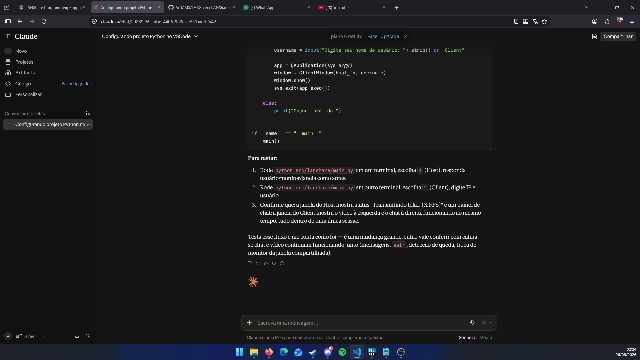
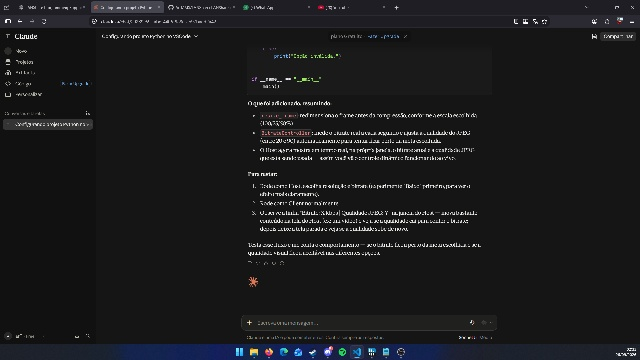
add configurable resolution scale and dynamic bitrate contro

Changed region(s): [[0.375, 0.1222, 0.75, 0.7333]]

diff --git a/src/lanshare/screen_capture.py b/src/lanshare/screen_capture.py
@@ -2,11 +2,11 @@ import cv2
 import mss
 import numpy as np
 
-JPEG_QUALITY = 70
+DEFAULT_JPEG_QUALITY = 70
 
 
 def choose_monitor(sct):
-    monitors = sct.monitors  # índice 0 = todos os monitores juntos; 1, 2, 3... = monitores individuais
+    monitors = sct.monitors
 
     print("\nMonitores disponíveis:")
     for i, monitor in enumerate(monitors):
@@ -23,9 +23,47 @@ def choose_monitor(sct):
         print("Opção inválida, tente novamente.")
 
 
-def compress_frame(frame, verbose=False):
+def choose_resolution_scale():
+    print("\nQualidade de resolução da transmissão:")
+    print("  [1] 100% (nítido, mais dados)")
+    print("  [2] 75%")
+    print("  [3] 50% (mais leve, menos nítido)")
+
+    options = {"1": 1.0, "2": 0.75, "3": 0.5}
+    while True:
+        escolha = input("Escolha uma opção: ").strip()
+        if escolha in options:
+            return options[escolha]
+        print("Opção inválida, tente novamente.")
+
+
+def choose_target_bitrate():
+    print("\nMeta de bitrate da transmissão (controla o quanto de dados é usado por segundo):")
+    print("  [1] Baixo (~1500 kbps) — prioriza economia de rede")
+    print("  [2] Médio (~4000 kbps) — equilíbrio")
+    print("  [3] Alto (~8000 kbps) — prioriza qualidade")
+
+    options = {"1": 1500, "2": 4000, "3": 8000}
+    while True:
+        escolha = input("Escolha uma opção: ").strip()
+        if escolha in options:
+            return options[escolha]
+        print("Opção inválida, tente novamente.")
+
+
+def resize_frame(frame, scale):
+    """Redimensiona o frame pela escala informada (1.0 = tamanho original)."""
+    if scale >= 1.0:
+        return frame
+    height, width = frame.shape[:2]
+    new_width = max(2, int(width * scale) // 2 * 2)   # garante dimensão par
+    new_height = max(2, int(height * scale) // 2 * 2)
+    return cv2.resize(frame, (new_width, new_height), interpolation=cv2.INTER_AREA)
+
+
+def compress_frame(frame, quality=DEFAULT_JPEG_QUALITY, verbose=False):
     """Recebe um frame já capturado (array BGR) e devolve os bytes comprimidos em JPEG."""
-    success, encoded = cv2.imencode(".jpg", frame, [cv2.IMWRITE_JPEG_QUALITY, JPEG_QUALITY])
+    success, encoded = cv2.imencode(".jpg", frame, [cv2.IMWRITE_JPEG_QUALITY, quality])
     compressed_bytes = encoded.tobytes()
 
     if verbose:
@@ -40,7 +78,6 @@ def compress_frame(frame, verbose=False):
 
 
 def capture_screen(output_path="screenshot.jpg"):
-    """Teste isolado de um único print — continua usando mss, simples o bastante para não precisar do dxcam aqui."""
     with mss.mss() as sct:
         _, monitor = choose_monitor(sct)
         screenshot = sct.grab(monitor)

diff --git a/src/lanshare/gui.py b/src/lanshare/gui.py
@@ -46,7 +46,6 @@ class ChatPanel(QWidget):
         self.chat_thread.message_received.connect(self._on_message_received)
         self.chat_thread.disconnected.connect(self._on_disconnected)
 
-        # heartbeat: envia sinal de vida a cada 5s e confere a cada 1s se o outro lado sumiu
         self.heartbeat_timer = QTimer(self)
         self.heartbeat_timer.timeout.connect(self.chat_thread.send_ping)
         self.heartbeat_timer.start(5000)
@@ -89,18 +88,21 @@ class ChatPanel(QWidget):
 
 
 class HostWindow(QMainWindow):
-    def __init__(self, username, monitor_index, monitor, target_hwnd, monitor_mapping, mss_monitors):
+    def __init__(self, username, monitor_index, monitor, target_hwnd, monitor_mapping, mss_monitors,
+                 resolution_scale=1.0, target_bitrate_kbps=4000):
         super().__init__()
         self.setWindowTitle("LANShare - Host")
         self.resize(700, 500)
 
         self.video_status_label = QLabel("Aguardando conexão de vídeo...")
+        self.stats_label = QLabel("")
 
         chat_thread = ChatServerThread(username)
         self.chat_panel = ChatPanel(username, chat_thread)
 
         layout = QVBoxLayout()
         layout.addWidget(self.video_status_label)
+        layout.addWidget(self.stats_label)
         layout.addWidget(self.chat_panel)
 
         container = QWidget()
@@ -108,13 +110,19 @@ class HostWindow(QMainWindow):
         self.setCentralWidget(container)
 
         self.video_thread = VideoSendServerThread(
-            monitor_index, monitor, target_hwnd, monitor_mapping, mss_monitors
+            monitor_index, monitor, target_hwnd, monitor_mapping, mss_monitors,
+            resolution_scale=resolution_scale, target_bitrate_kbps=target_bitrate_kbps
         )
         self.video_thread.client_connected.connect(
             lambda: self.video_status_label.setText("Transmitindo tela...")
         )
         self.video_thread.fps_updated.connect(
             lambda fps: self.video_status_label.setText(f"Transmitindo tela... ({fps:.1f} FPS)")
+        )
+        self.video_thread.stats_updated.connect(
+            lambda kbps, quality: self.stats_label.setText(
+                f"Bitrate: {kbps:.0f} kbps | Qualidade JPEG: {quality}"
+            )
         )
         self.video_thread.error_occurred.connect(
             lambda msg: self.video_status_label.setText(f"Erro na transmissão: {msg}")

diff --git a/src/lanshare/video_threads.py b/src/lanshare/video_threads.py
@@ -5,7 +5,8 @@ import dxcam
 from PySide6.QtCore import QThread, Signal
 
 from streaming import send_frame, receive_frame
-from screen_capture import compress_frame
+from screen_capture import compress_frame, resize_frame
+from bitrate_controller import BitrateController
 from window_selector import get_window_region, get_current_monitor_index
 
 STREAM_PORT = 5556
@@ -18,15 +19,19 @@ class VideoSendServerThread(QThread):
 
     client_connected = Signal()
     fps_updated = Signal(float)
+    stats_updated = Signal(float, int)  # bitrate atual (kbps), qualidade JPEG atual
     error_occurred = Signal(str)
 
-    def __init__(self, monitor_index, monitor, target_hwnd, monitor_mapping, mss_monitors):
+    def __init__(self, monitor_index, monitor, target_hwnd, monitor_mapping, mss_monitors,
+                 resolution_scale=1.0, target_bitrate_kbps=4000):
         super().__init__()
         self.monitor_index = monitor_index
         self.monitor = monitor
         self.target_hwnd = target_hwnd
         self.monitor_mapping = monitor_mapping
         self.mss_monitors = mss_monitors
+        self.resolution_scale = resolution_scale
+        self.bitrate_controller = BitrateController(target_bitrate_kbps)
         self._running = True
 
     def run(self):
@@ -77,14 +82,20 @@ class VideoSendServerThread(QThread):
                     time.sleep(0.001)
                     continue
 
-                frame_bytes = compress_frame(frame, verbose=False)
+                frame = resize_frame(frame, self.resolution_scale)
+
+                current_quality = self.bitrate_controller.quality
+                frame_bytes = compress_frame(frame, quality=current_quality, verbose=False)
                 send_frame(conn, frame_bytes)
+
+                new_quality = self.bitrate_controller.register_frame(len(frame_bytes))
 
                 frames_since_report += 1
                 now = time.time()
                 if now - last_report_time >= 1.0:
                     fps = frames_since_report / (now - last_report_time)
                     self.fps_updated.emit(fps)
+                    self.stats_updated.emit(self.bitrate_controller.current_bitrate_kbps(), new_quality)
                     frames_since_report = 0
                     last_report_time = now
 

diff --git a/src/lanshare/bitrate_controller.py b/src/lanshare/bitrate_controller.py
@@ -1,0 +1,42 @@
+import time
+
+
+class BitrateController:
+    """Ajusta a qualidade do JPEG dinamicamente para tentar manter o bitrate
+    real perto de uma meta (target_kbps), sem precisar de um valor fixo."""
+
+    MIN_QUALITY = 20
+    MAX_QUALITY = 90
+    ADJUST_STEP = 5
+
+    def __init__(self, target_kbps, initial_quality=70):
+        self.target_kbps = target_kbps
+        self.quality = initial_quality
+        self._bytes_since_check = 0
+        self._last_check_time = time.time()
+
+    def register_frame(self, frame_bytes_len):
+        self._bytes_since_check += frame_bytes_len
+
+        now = time.time()
+        elapsed = now - self._last_check_time
+        if elapsed < 1.0:
+            return self.quality  # só reavalia a cada 1 segundo real
+
+        current_kbps = (self._bytes_since_check * 8 / 1024) / elapsed
+
+        if current_kbps > self.target_kbps * 1.1:
+            self.quality = max(self.MIN_QUALITY, self.quality - self.ADJUST_STEP)
+        elif current_kbps < self.target_kbps * 0.8:
+            self.quality = min(self.MAX_QUALITY, self.quality + self.ADJUST_STEP)
+
+        self._bytes_since_check = 0
+        self._last_check_time = now
+
+        return self.quality
+
+    def current_bitrate_kbps(self):
+        elapsed = time.time() - self._last_check_time
+        if elapsed <= 0:
+            return 0.0
+        return (self._bytes_since_check * 8 / 1024) / elapsed

diff --git a/src/lanshare/main.py b/src/lanshare/main.py
@@ -3,7 +3,7 @@ import sys
 import mss
 from PySide6.QtWidgets import QApplication
 
-from screen_capture import choose_monitor
+from screen_capture import choose_monitor, choose_resolution_scale, choose_target_bitrate
 from window_selector import choose_window
 from monitor_mapping import calibrate_monitor_mapping
 from gui import HostWindow, ClientWindow
@@ -20,10 +20,15 @@ def main():
             monitor_index, monitor = choose_monitor(sct)
 
         target_hwnd = choose_window(monitor)
+        resolution_scale = choose_resolution_scale()
+        target_bitrate_kbps = choose_target_bitrate()
         monitor_mapping = calibrate_monitor_mapping(mss_monitors)
 
         app = QApplication(sys.argv)
-        window = HostWindow(username, monitor_index, monitor, target_hwnd, monitor_mapping, mss_monitors)
+        window = HostWindow(
+            username, monitor_index, monitor, target_hwnd, monitor_mapping, mss_monitors,
+            resolution_scale=resolution_scale, target_bitrate_kbps=target_bitrate_kbps
+        )
         window.show()
         sys.exit(app.exec())
 

diff --git a/README.md b/README.md
@@ -72,11 +72,8 @@ More information will be added as issues are discovered.
 - [x] Select which monitor to share
 - [x] Select which application to share
 - [x] Implement continuous streaming
-- [ ] Reduce latency
-- [ ] Control bitrate
-- [ ] Adjust resolution
-- [ ] Optimize CPU usage
-- [ ] Optimize network bandwidth
+- [x] Adjust resolution & Control bitrate
+- [ ] Basic GUI
 
 ### V0.5 — Audio
 
@@ -90,6 +87,10 @@ More information will be added as issues are discovered.
 
 - [ ] Support multiple viewers
 - [ ] Display connected users
+
+### V1.0 - Optimization
+- [ ] Reduce latency
+- [ ] Optimize network bandwidth
 
 ---
 
